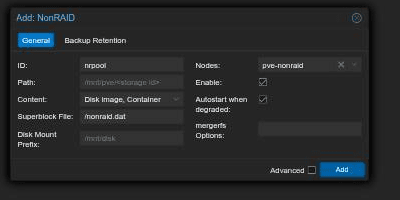
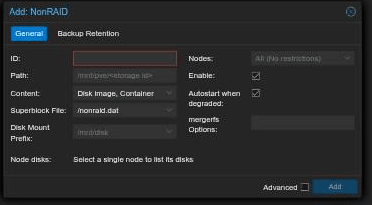
pve-plugin: suggest known paths, and show what the node's disks are
The two path fields were free text with a default, so the only way to get
a second storage onto the same array was to retype the superblock path
exactly. They are editable comboboxes now, offering the defaults plus the
values the cluster's existing nonraid storages already use, read from the
storage config the UI renders anyway. Still free text - a new array can
use any path - so nothing is forced.

The dialog also lists the selected node's disks with device path, size and
what currently claims each one. Disks that are spoken for (a filesystem,
LVM, ZFS, a Ceph OSD - and array members, which carry filesystems) are
dimmed, labelled with the claim and made inert, so they cannot be selected
or copied by accident; free disks stay bright and selectable, since the
point of showing a path is to paste it into nmdctl. It follows the Nodes
selector rather than adding one, and submitValue is false so the hint
never reaches the API.

Both come from endpoints that already exist. A per-plugin scan endpoint
would be the natural home for this, but /nodes/{node}/scan/<type> is a
fixed list compiled into pve-storage, and patching the API tree to add one
is a far worse dependency than reading a list the UI is entitled to.

Screenshots redone from the rig: a blank Add form, the superblock dropdown,
and the disk list showing both states. The README says plainly that these
are the node's disks, not the array's members - that mapping lives in
/proc/nmdstat and no API exposes it.

diff --git a/pve-plugin/js/pve-nonraid-storage.js b/pve-plugin/js/pve-nonraid-storage.js
@@ -26,22 +26,32 @@
 
         // Single edit point: names must match the properties() of
         // PVE::Storage::Custom::NonRAIDPlugin exactly.
+        //
+        // 'suggest' turns a field into an editable combobox seeded with those
+        // values. Both path fields are free-form - a new array may use any
+        // path - so this cannot be a closed list, but offering the values
+        // already in use removes the common typo. The list is extended at
+        // render time from the nonraid storages this cluster already has (see
+        // addDerivedSuggestions); the driver takes its superblock as a module
+        // parameter, so a second storage on the same node needs the same one.
         var NONRAID_FIELDS = [
             {
                 name: 'nonraid-super',
                 label: 'Superblock File',
-                xtype: 'textfield',
+                xtype: 'combobox',
                 value: '/nonraid.dat',
                 allowBlank: false,
+                suggest: ['/nonraid.dat'],
                 column: 1,
             },
             {
                 name: 'nonraid-disk-prefix',
                 label: 'Disk Mount Prefix',
-                xtype: 'textfield',
+                xtype: 'combobox',
                 emptyText: '/mnt/disk',
                 allowBlank: true,
                 deleteEmptyOnEdit: true,
+                suggest: ['/mnt/disk'],
                 column: 1,
             },
             {
@@ -61,6 +71,132 @@
                 column: 2,
             },
         ];
+
+        // Values already in use by this cluster's nonraid storages. Read from
+        // the storage config the UI is entitled to anyway - PVE has no
+        // extension point for a per-plugin scan endpoint (the /nodes/{node}/
+        // scan/<type> list is fixed at compile time in pve-storage), and
+        // patching the API tree to add one would be a far worse dependency
+        // than reading a list the Storage view already renders.
+        //
+        // Best-effort throughout: on any failure the field keeps its defaults
+        // and stays typeable, which is exactly what it was before.
+        var addDerivedSuggestions = function (panel) {
+            if (typeof Proxmox === 'undefined' || !Proxmox.Utils ||
+                !Ext.isFunction(Proxmox.Utils.API2Request)) {
+                return;
+            }
+            Proxmox.Utils.API2Request({
+                url: '/storage',
+                method: 'GET',
+                success: function (response) {
+                    try {
+                        var seen = {};
+                        var data = (response.result && response.result.data) || [];
+                        Ext.Array.each(NONRAID_FIELDS, function (f) {
+                            if (!f.suggest) {
+                                return;
+                            }
+                            var field = panel.down('field[name=' + f.name + ']');
+                            if (!field || !field.getStore) {
+                                return;
+                            }
+                            var store = field.getStore();
+                            seen = {};
+                            store.each(function (rec) { seen[rec.get('value')] = true; });
+                            Ext.Array.each(data, function (s) {
+                                var v = s[f.name];
+                                if (s.type === 'nonraid' && v && !seen[v]) {
+                                    seen[v] = true;
+                                    store.add({ value: v });
+                                }
+                            });
+                        });
+                    } catch (err) {
+                        console.warn('pve-nonraid: could not derive suggestions', err);
+                    }
+                },
+                failure: function () {
+                    // Defaults remain; nothing to report to the user.
+                },
+            });
+        };
+
+        // A one-line summary of the node's disks, so the operator can see what
+        // hardware is actually there while pointing a storage at an array.
+        //
+        // These are the NODE's disks, not the array's members: the slot -> disk
+        // mapping lives in /proc/nmdstat, which no API exposes, and inventing
+        // an endpoint for it would mean patching PVE's API tree (the
+        // /nodes/{node}/scan/<type> list is fixed at compile time). The label
+        // says so rather than implying these are the members.
+        var describeDisks = function (panel, node) {
+            var hint = panel.down('field[name=nonraid-node-disks]');
+            if (!hint) {
+                return;
+            }
+            if (!node) {
+                hint.setValue(gettext('Select a single node to list its disks'));
+                return;
+            }
+            Proxmox.Utils.API2Request({
+                url: '/nodes/' + node + '/disks/list',
+                method: 'GET',
+                success: function (response) {
+                    try {
+                        var disks = (response.result && response.result.data) || [];
+                        if (!disks.length) {
+                            hint.setValue(gettext('No disks reported'));
+                            return;
+                        }
+                        var parts = Ext.Array.map(disks, function (d) {
+                            var size = Ext.isFunction(Proxmox.Utils.format_size)
+                                ? Proxmox.Utils.format_size(d.size)
+                                : d.size;
+                            var model = d.model && d.model !== 'unknown'
+                                ? ' ' + Ext.String.htmlEncode(d.model) : '';
+
+                            // 'used' is whatever already claims the disk - a
+                            // filesystem, LVM, ZFS, partitions - and osdid is
+                            // set for a Ceph OSD. Either way it is spoken for,
+                            // including by a NonRAID array, whose members
+                            // carry their own filesystems.
+                            var claim = d.used ||
+                                (d.osdid !== undefined && d.osdid >= 0 ? 'Ceph OSD' : '');
+                            var label = '<b>' + Ext.String.htmlEncode(d.devpath) + '</b> '
+                                + size + model;
+
+                            if (claim) {
+                                // Dimmed rather than hidden: knowing a disk is
+                                // taken, and by what, is the point. Inert too -
+                                // no text selection, no pointer - so a claimed
+                                // disk cannot be copied into an nmdctl command
+                                // by accident. Opacity degrades sanely in
+                                // either PVE theme.
+                                return '<span aria-disabled="true" title="'
+                                    + Ext.String.htmlEncode(gettext('In use') + ': ' + claim)
+                                    + '" style="opacity:0.5;pointer-events:none;'
+                                    + 'user-select:none;-webkit-user-select:none;'
+                                    + 'cursor:not-allowed">'
+                                    + label + ' (' + Ext.String.htmlEncode(claim)
+                                    + ')</span>';
+                            }
+                            // Free disks stay selectable on purpose: the point
+                            // of showing the path is to copy it into nmdctl.
+                            return '<span style="user-select:text">' + label
+                                + ' <span style="opacity:0.7">(' + gettext('free')
+                                + ')</span></span>';
+                        });
+                        hint.setValue(parts.join('&nbsp; · &nbsp;'));
+                    } catch (err) {
+                        hint.setValue(gettext('Could not read the disk list'));
+                    }
+                },
+                failure: function () {
+                    hint.setValue(gettext('Could not read the disk list'));
+                },
+            });
+        };
 
         Ext.define('PVE.storage.NonRAIDInputPanel', {
             extend: 'PVE.panel.StorageBase',
@@ -121,6 +257,24 @@
                     if (f.deleteEmptyOnEdit) {
                         field.deleteEmpty = !me.isCreate;
                     }
+                    if (f.suggest) {
+                        // Editable and forceSelection:false on purpose: the
+                        // suggestions are a convenience, not the valid set.
+                        // queryMode local because the store is in memory.
+                        Ext.apply(field, {
+                            editable: true,
+                            forceSelection: false,
+                            queryMode: 'local',
+                            displayField: 'value',
+                            valueField: 'value',
+                            store: {
+                                fields: ['value'],
+                                data: Ext.Array.map(f.suggest, function (v) {
+                                    return { value: v };
+                                }),
+                            },
+                        });
+                    }
                     (f.column === 2 ? me.column2 : me.column1).push(field);
                 });
 
@@ -137,7 +291,39 @@
                     },
                 ];
 
+                // Full width, under both columns: a disk list does not fit in
+                // a half-width field. submitValue false - it is a hint, and
+                // the API rejects keys the schema does not define.
+                me.columnB = [
+                    {
+                        xtype: 'displayfield',
+                        name: 'nonraid-node-disks',
+                        submitValue: false,
+                        fieldLabel: gettext('Node disks'),
+                        value: gettext('Select a single node to list its disks'),
+                        // The list can wrap over a few lines on a full node.
+                        autoEl: { tag: 'div', style: 'line-height:1.6' },
+                    },
+                ];
+
                 me.callParent();
+
+                // After callParent so the fields exist to be looked up.
+                addDerivedSuggestions(me);
+
+                // StorageBase owns the Nodes selector; follow it rather than
+                // adding one, so the hint always describes the node the
+                // storage is actually being restricted to.
+                var nodesField = me.down('field[name=nodes]');
+                if (nodesField) {
+                    var refresh = function () {
+                        var v = nodesField.getValue();
+                        var list = Ext.isArray(v) ? v : (v ? String(v).split(',') : []);
+                        describeDisks(me, list.length === 1 ? list[0] : undefined);
+                    };
+                    nodesField.on('change', refresh);
+                    refresh();
+                }
             },
 
             onGetValues: function (values) {

diff --git a/pve-plugin/README.md b/pve-plugin/README.md
@@ -101,6 +101,30 @@ with the manual command to run — see the fail-stop note above. **mergerfs
 Options** replaces the computed defaults; the plugin appends its own
 `fsname=` regardless, because the shutdown teardown finds pools by it.
 
+**Superblock File** and **Disk Mount Prefix** are editable dropdowns. They
+offer the defaults plus whatever the nonraid storages already configured on
+this cluster use — the driver takes its superblock as a module parameter, so
+a second storage on the same node needs the same one, and picking it from a
+list beats retyping a path. Neither is a closed set: type any path.
+
+![The Superblock File dropdown offering derived values](images/add-dialog-suggest.png)
+
+**Node disks** lists what the selected node actually has, so you can confirm
+you are pointing at the machine you think. Disks that something already
+claims — a filesystem, LVM, ZFS, a Ceph OSD, and that includes NonRAID array
+members, which carry their own filesystems — are dimmed, marked with the
+claim, and inert: they cannot be selected or copied. Unclaimed disks stay
+bright, marked `(free)`, and remain selectable so the path can be copied into
+an `nmdctl` command.
+
+![Node disks, claimed ones dimmed](images/add-dialog-disks.png)
+
+These are the *node's* disks, not the array's members. The slot-to-disk
+mapping lives in `/proc/nmdstat`, which no PVE API exposes; run
+`nmdctl status` for that. Array membership is not part of the storage
+configuration at all — `nmdctl create`/`add` own it (see the note on manual
+ceremony above).
+
 ### After it is added
 
 The storage appears with type **NonRAID**. It is created immediately but only
